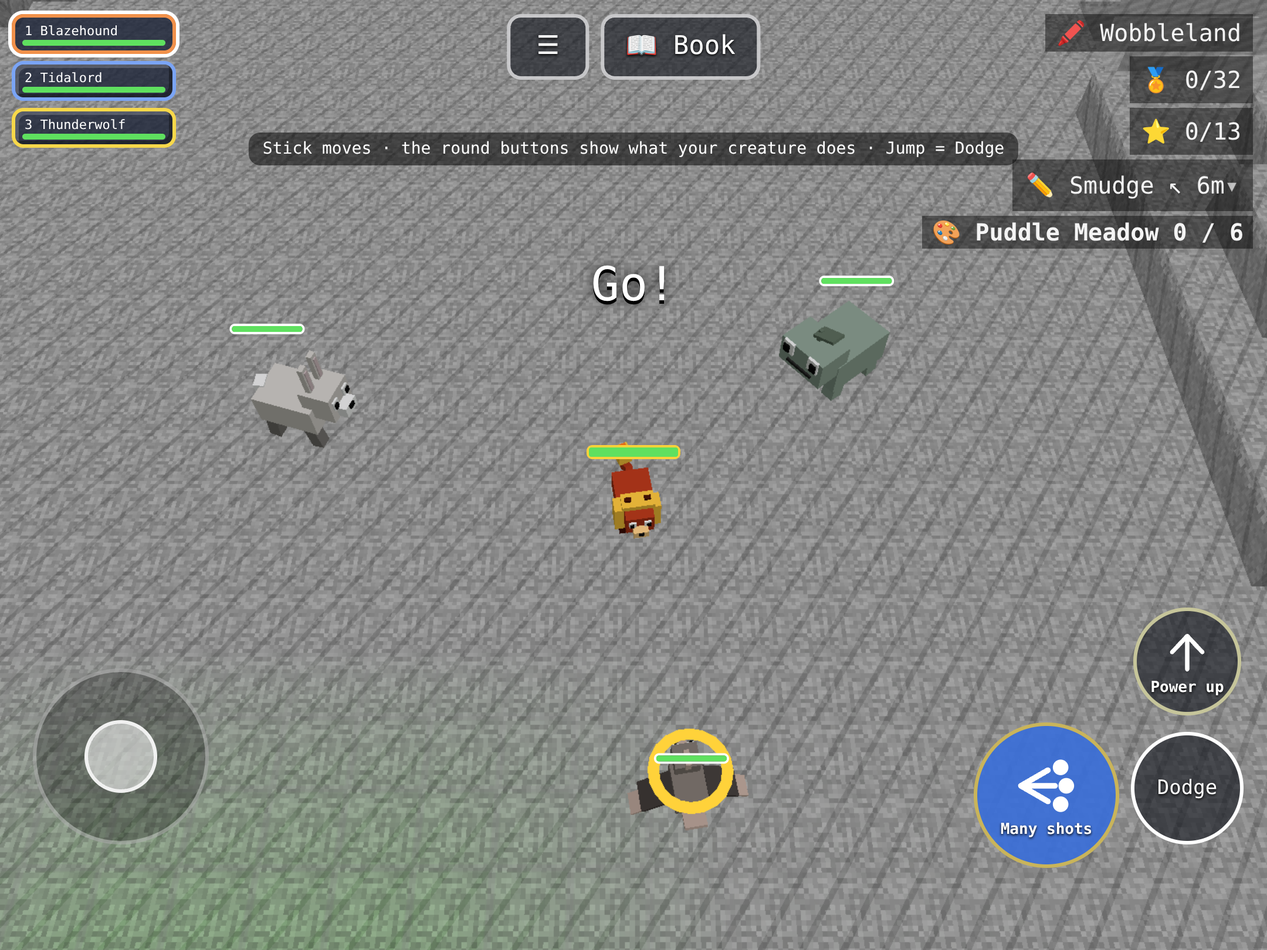
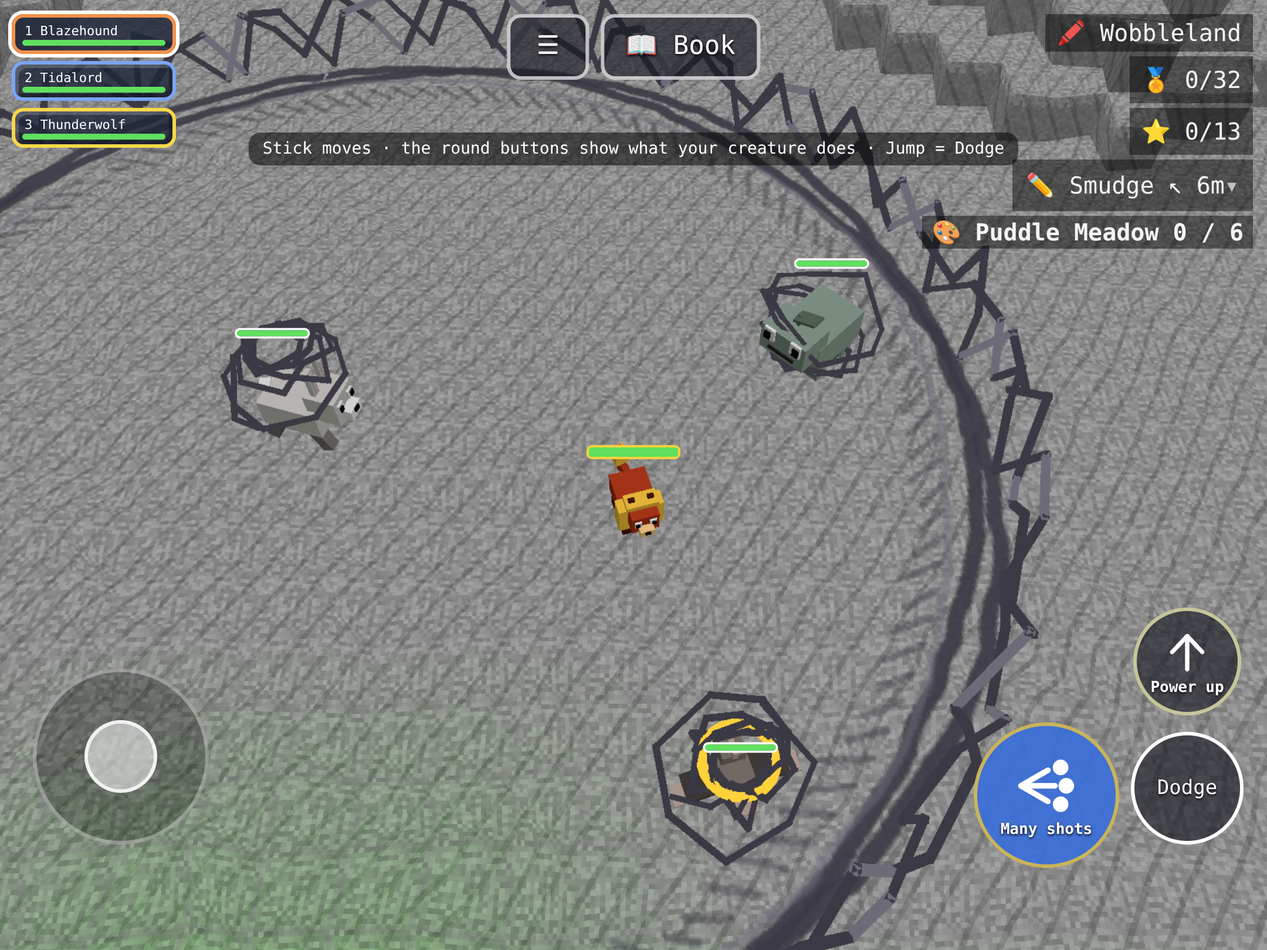
Wobbleland: wobbly hand-drawn block edges and a child's sky (crayon dome, smiling sun, clouds on strings)
Claude-Session: https://claude.ai/code/session_01Xr3DsUcemaoHVRZQu5jHwS

Changed region(s): [[0.0, 0.0, 1.0, 1.0]]

diff --git a/src/wobblesky.js b/src/wobblesky.js
@@ -1,0 +1,122 @@
+// Chapter 3 C3 (owner 2026-11-11, "more different than our regular world"): Wobbleland's sky, drawn by a child: a sky coloured in with
+// streaky crayon (one dome that follows the camera), a big sun with rays and a smile, and flat cotton clouds hanging on strings from the
+// top of the page. Only in Wobbleland (wobblelook.js adds it on reset and takes it away everywhere else); never a block, never saved.
+// Every mesh carries userData.noCurl (the page's curl must not lift the sky) and fog: false. 4 draw calls: dome, sun, clouds, strings.
+import * as THREE from 'three';
+
+export const SKY = {
+  r: 240,                     // the dome's radius (the camera's far plane is 300)
+  page: '#fff3c4',            // the page colour at the horizon (= the realm's fog colour, realms.js look.sky)
+  blue: ['#7cc4f2', '#5fb2ec', '#8fd0f6', '#6cbdf0'], // crayon blues
+  sun: { yaw: 0.3, up: 0.27, size: 46 },             // where the sun hangs (yaw from north, how high) and how big
+  clouds: [[-0.6, 0.30, 40], [0.2, 0.36, 34], [1.4, 0.26, 44], [2.3, 0.33, 36], [3.2, 0.28, 42], [4.3, 0.34, 32], [5.3, 0.27, 38]], // yaw, up, size
+  drift: 0.012,               // the clouds swing on their strings (radians a second, a slow sway; never a fall)
+};
+
+// a seeded random (the same sky every time)
+function rng(seed) { let s = seed >>> 0; return () => { s = (s * 1664525 + 1013904223) >>> 0; return s / 4294967296; }; }
+
+function domeTexture() {
+  const W = 1024, H = 512, c = document.createElement('canvas'); c.width = W; c.height = H;
+  const x = c.getContext('2d'), r = rng(7);
+  x.fillStyle = SKY.page; x.fillRect(0, 0, W, H);
+  // crayon strokes: long slanted strokes, thick, with gaps where the paper shows, thinning toward the horizon (v 0.5)
+  x.lineCap = 'round';
+  for (let i = 0; i < 2600; i++) {
+    const v = Math.pow(r(), 1.4) * 0.5, y = v * H;
+    const along = 1 - v / 0.5;
+    if (r() > 0.35 + along * 0.65) continue;
+    const x0 = r() * W, len = 30 + r() * 70, a = -0.35 + r() * 0.12;
+    x.strokeStyle = SKY.blue[(r() * SKY.blue.length) | 0];
+    x.globalAlpha = 0.35 + along * 0.5;
+    x.lineWidth = 5 + r() * 7;
+    x.beginPath(); x.moveTo(x0, y); x.lineTo(x0 + Math.cos(a) * len, y + Math.sin(a) * len); x.stroke();
+    if (x0 + len > W) { x.beginPath(); x.moveTo(x0 - W, y); x.lineTo(x0 - W + Math.cos(a) * len, y + Math.sin(a) * len); x.stroke(); }
+  }
+  x.globalAlpha = 1;
+  const t = new THREE.CanvasTexture(c); t.colorSpace = THREE.SRGBColorSpace; t.wrapS = THREE.RepeatWrapping;
+  return t;
+}
+
+function sunTexture() {
+  const S = 256, c = document.createElement('canvas'); c.width = c.height = S;
+  const x = c.getContext('2d'), m = S / 2, r = rng(3);
+  x.lineCap = 'round'; x.lineJoin = 'round';
+  // rays: wobbly crayon lines, some long, some short
+  for (let i = 0; i < 14; i++) {
+    const a = i / 14 * Math.PI * 2 + (r() - 0.5) * 0.12, r0 = 62, r1 = 92 + (i % 2) * 22 + r() * 8;
+    x.strokeStyle = i % 2 ? '#ffb020' : '#ffd23a'; x.lineWidth = 9;
+    x.beginPath(); x.moveTo(m + Math.cos(a) * r0, m + Math.sin(a) * r0);
+    x.quadraticCurveTo(m + Math.cos(a + 0.08) * (r0 + r1) / 2, m + Math.sin(a + 0.08) * (r0 + r1) / 2, m + Math.cos(a) * r1, m + Math.sin(a) * r1); x.stroke();
+  }
+  // the face: a round coloured in yellow (strokes over the line), a smile and two dots
+  x.fillStyle = '#ffd84a'; x.beginPath(); x.arc(m, m, 58, 0, Math.PI * 2); x.fill();
+  x.strokeStyle = '#ffc21a'; x.lineWidth = 6;
+  for (let i = 0; i < 16; i++) { const y = m - 52 + i * 7; x.beginPath(); x.moveTo(m - 52 + r() * 8, y); x.lineTo(m + 52 - r() * 8, y + 4); x.stroke(); }
+  x.strokeStyle = '#e8901a'; x.lineWidth = 5; x.beginPath(); x.arc(m, m, 58, 0, Math.PI * 2); x.stroke();
+  x.fillStyle = '#4a3020'; x.beginPath(); x.arc(m - 20, m - 12, 6, 0, Math.PI * 2); x.arc(m + 20, m - 12, 6, 0, Math.PI * 2); x.fill();
+  x.strokeStyle = '#4a3020'; x.lineWidth = 6; x.beginPath(); x.arc(m, m + 2, 26, 0.2 * Math.PI, 0.8 * Math.PI); x.stroke();
+  x.fillStyle = 'rgba(255,120,120,0.55)'; x.beginPath(); x.arc(m - 34, m + 12, 9, 0, Math.PI * 2); x.arc(m + 34, m + 12, 9, 0, Math.PI * 2); x.fill();
+  const t = new THREE.CanvasTexture(c); t.colorSpace = THREE.SRGBColorSpace; return t;
+}
+
+function cloudTexture() {
+  const W = 256, H = 128, c = document.createElement('canvas'); c.width = W; c.height = H;
+  const x = c.getContext('2d'), puffs = [[70, 78, 40], [118, 58, 48], [170, 74, 40], [205, 88, 26], [44, 92, 24], [128, 92, 36]];
+  x.fillStyle = '#ffffff';
+  for (const [px, py, pr] of puffs) { x.beginPath(); x.arc(px, py, pr, 0, Math.PI * 2); x.fill(); }
+  x.strokeStyle = '#8aa6c8'; x.lineWidth = 4; // the outline of every puff, drawn round the outside only
+  x.save(); x.globalCompositeOperation = 'destination-over';
+  for (const [px, py, pr] of puffs) { x.beginPath(); x.arc(px, py, pr + 3, 0, Math.PI * 2); x.fillStyle = '#8aa6c8'; x.fill(); }
+  x.restore();
+  const t = new THREE.CanvasTexture(c); t.colorSpace = THREE.SRGBColorSpace; return t;
+}
+
+const dirOf = (yaw, up) => new THREE.Vector3(-Math.sin(yaw) * Math.cos(up * Math.PI / 2), Math.sin(up * Math.PI / 2), -Math.cos(yaw) * Math.cos(up * Math.PI / 2));
+
+export function createWobbleSky(scene) {
+  if (typeof document === 'undefined') return { update() {}, dispose() {}, info: () => ({ on: false }) };
+  const group = new THREE.Group(); group.name = 'wobble-sky'; group.userData.noCurl = true;
+  const mk = (geo, mat, order) => { const m = new THREE.Mesh(geo, mat); m.renderOrder = order; m.frustumCulled = false; m.userData.noCurl = true; group.add(m); return m; };
+  const dome = mk(new THREE.SphereGeometry(SKY.r, 32, 16), new THREE.MeshBasicMaterial({ map: domeTexture(), side: THREE.BackSide, fog: false, depthWrite: false }), -10);
+  const sunDir = dirOf(SKY.sun.yaw, SKY.sun.up);
+  const sun = mk(new THREE.PlaneGeometry(SKY.sun.size, SKY.sun.size), new THREE.MeshBasicMaterial({ map: sunTexture(), transparent: true, fog: false, depthWrite: false }), -9);
+  // the clouds: one mesh of flat quads (each faces the middle), and their strings as one line set up to the top of the page
+  const cloudTex = cloudTexture(), quads = [], strings = [];
+  for (const [yaw, up, size] of SKY.clouds) {
+    const d = dirOf(yaw, up), p = d.clone().multiplyScalar(SKY.r * 0.82), w = size, h = size / 2;
+    const right = new THREE.Vector3(Math.cos(yaw), 0, -Math.sin(yaw)).multiplyScalar(w / 2), upV = new THREE.Vector3(0, h / 2, 0);
+    quads.push({ p, right, upV });
+    strings.push(p.clone().add(new THREE.Vector3(0, h * 0.35, 0)), p.clone().add(new THREE.Vector3(0, SKY.r, 0)));
+  }
+  const pos = new Float32Array(quads.length * 18), uv = new Float32Array(quads.length * 12);
+  quads.forEach((q, i) => {
+    const a = q.p.clone().sub(q.right).sub(q.upV), b = q.p.clone().add(q.right).sub(q.upV), c = q.p.clone().add(q.right).add(q.upV), d = q.p.clone().sub(q.right).add(q.upV);
+    [a, b, c, a, c, d].forEach((v, k) => pos.set([v.x, v.y, v.z], i * 18 + k * 3));
+    uv.set([0, 0, 1, 0, 1, 1, 0, 0, 1, 1, 0, 1], i * 12);
+  });
+  const cg = new THREE.BufferGeometry(); cg.setAttribute('position', new THREE.BufferAttribute(pos, 3)); cg.setAttribute('uv', new THREE.BufferAttribute(uv, 2));
+  const clouds = mk(cg, new THREE.MeshBasicMaterial({ map: cloudTex, transparent: true, fog: false, depthWrite: false, side: THREE.DoubleSide }), -8);
+  const sg = new THREE.BufferGeometry().setFromPoints(strings);
+  const lines = new THREE.LineSegments(sg, new THREE.LineBasicMaterial({ color: 0x6a7a90, fog: false, depthWrite: false }));
+  lines.renderOrder = -8; lines.frustumCulled = false; lines.userData.noCurl = true; group.add(lines);
+  scene.add(group);
+  let t = 0;
+  return {
+    group,
+    update(dt, camera) {
+      t += dt;
+      group.position.copy(camera.position);
+      sun.position.copy(sunDir).multiplyScalar(SKY.r * 0.9);
+      group.updateMatrixWorld(); sun.lookAt(camera.position); // (lookAt takes a world place: the group's middle is the camera)
+      sun.rotateZ(Math.sin(t * 0.4) * 0.06); // (it nods a little)
+      const sway = Math.sin(t * 0.5) * SKY.drift * 20;
+      clouds.rotation.y = sway; lines.rotation.y = sway;
+    },
+    dispose() {
+      scene.remove(group);
+      group.traverse(o => { o.geometry?.dispose?.(); o.material?.map?.dispose?.(); o.material?.dispose?.(); });
+    },
+    info() { return { on: true, calls: group.children.length }; },
+  };
+}

diff --git a/src/wobblelook.js b/src/wobblelook.js
@@ -12,11 +12,14 @@ import * as THREE from 'three';
 import { wobbleLook as U } from './caves.js';
 import { PATCHES, CAMP, patchKey, REGIONS, SIZE, meadowState, inMeadow, regionAt } from './wobbleland.js';
 import { B } from './blocks.js';
+import { createWobbleSky } from './wobblesky.js'; // C3: a child's sky
 
 export const WOBBLE_LOOK = {
   curl: true,          // the curling horizon: the one on/off switch
   curlFrom: 28,        // blocks from you where the page starts to bend up
-  curlK: 0.0025,       // lift = curlK x (distance - curlFrom)^2: at 60 blocks 2.6 up, at 100 about 13, at 150 about 37
+  curlK: 0.0025,
+  sky: true,           // C3: the child's sky (wobblesky.js): crayon dome, smiling sun, clouds on strings
+  jig: 0.12,           // C1: every block corner moves up to this far sideways (half that up or down): hand-drawn edges (0 = straight)       // lift = curlK x (distance - curlFrom)^2: at 60 blocks 2.6 up, at 100 about 13, at 150 about 37
   draft: [1.07, 1.05, 0.86], sat: 1.45, line: 0.35, // the first-draft colours: tint, saturation, outline darkness
   cell: 4,             // the colour map: one texel per cell x cell blocks
   cleared: 17,         // a cleared patch colours a circle this big round its middle
@@ -31,7 +34,7 @@ export function createWobbleLook(game, { materials, scene, camera }) {
   tex.magFilter = THREE.LinearFilter; tex.minFilter = THREE.LinearFilter; tex.colorSpace = THREE.NoColorSpace;
   U.uWobColour.value = tex;
   let active = false, world = null, floods = [], sig = '', lifted = [];
-  let btn = null, shown = null;
+  let btn = null, shown = null, sky = null;
   const mats = ['solid', 'water', 'glow'];
   // how coloured a texel's middle is (0..1): the Camp, cleared patches (a flood grows from 0 to its radius), cleared regions
   function paint() {
@@ -63,6 +66,7 @@ export function createWobbleLook(game, { materials, scene, camera }) {
   function uniforms() {
     U.uCurl.value = active && WOBBLE_LOOK.curl ? WOBBLE_LOOK.curlK : 0;
     U.uCurlFrom.value = WOBBLE_LOOK.curlFrom;
+    U.uWobJig.value = active ? WOBBLE_LOOK.jig : 0;
     U.uDraft.value.set(...WOBBLE_LOOK.draft); U.uWobSat.value = WOBBLE_LOOK.sat; U.uWobLine.value = WOBBLE_LOOK.line;
     U.uWobSize.value.set(SIZE, SIZE);
   }
@@ -73,6 +77,8 @@ export function createWobbleLook(game, { materials, scene, camera }) {
       if (active && !w?.realm?.look?.wobble) game.ui?.setScore?.(null); // leaving: the meter goes
       world = w; active = !!w?.realm?.look?.wobble;
       setDefine(active); floods = []; sig = '';
+      sky?.dispose(); sky = null;
+      if (active && WOBBLE_LOOK.sky) sky = createWobbleSky(scene);
       uniforms();
       if (active) paint();
     },
@@ -95,6 +101,7 @@ export function createWobbleLook(game, { materials, scene, camera }) {
       api.refresh();
       if (!active) return;
       uniforms();
+      sky?.update(dt, camera);
       const m = meadowState(game.beaten); // the region's meter (step 6)
       if (m.n >= m.of && !world.wobbleMelted) api.meltWall(); // step 7: the knot cleared: the Scribble's wall melts away (live cells only)
       const reg = world.wobbleMelted && game.player ? regionAt(game.player.pos.x, game.player.pos.z) : 'meadow';
@@ -139,7 +146,7 @@ export function createWobbleLook(game, { materials, scene, camera }) {
     // ?preview: the pause screen's switch
     toggleCurl() { WOBBLE_LOOK.curl = !WOBBLE_LOOK.curl; uniforms(); return WOBBLE_LOOK.curl; },
     colourAt(x, z) { const i = Math.floor(x / WOBBLE_LOOK.cell), j = Math.floor(z / WOBBLE_LOOK.cell); return i < 0 || j < 0 || i >= N || j >= N ? 0 : data[(i + j * N) * 4] / 255; },
-    info() { return { on: active, curl: WOBBLE_LOOK.curl && active, floods: floods.length, defines: mats.map(k => !!materials[k]?.defines?.WOBBLE) }; },
+    info() { return { on: active, curl: WOBBLE_LOOK.curl && active, jig: active ? WOBBLE_LOOK.jig : 0, sky: !!sky, floods: floods.length, defines: mats.map(k => !!materials[k]?.defines?.WOBBLE) }; },
   };
   return api;
 }

diff --git a/src/caves.js b/src/caves.js
@@ -630,16 +630,26 @@ export const swirlTint = {
 // (more saturated, a lemony tint, chunky outlines on the block edges), and grey with scribble strokes where the Scribble still is
 // (uWobColour: one texel per 4 x 4 blocks, 1 = coloured; the colour flood writes it).
 export const wobbleLook = {
-  uCurl: { value: 0 }, uCurlFrom: { value: 24 },
+  uCurl: { value: 0 }, uCurlFrom: { value: 24 }, uWobJig: { value: 0 },
   uWobColour: { value: null }, uWobSize: { value: new THREE.Vector2(224, 224) },
   uDraft: { value: new THREE.Vector3(1, 1, 1) }, uWobSat: { value: 1 }, uWobLine: { value: 0 },
 };
-const WOBBLE_VERT_PARS = '#ifdef WOBBLE\nuniform float uCurl;\nuniform float uCurlFrom;\n#endif';
+const WOBBLE_VERT_PARS = '#ifdef WOBBLE\nuniform float uCurl;\nuniform float uCurlFrom;\nuniform float uWobJig;\n#endif';
 // (after project_vertex; vCavePos is the world position) the curl: lifted by uCurl x (distance past uCurlFrom)^2, the same in every shader
+// C1 (owner 2026-11-11, "more different"): every block corner moves a fixed little bit (a hash of its own place: up to uWobJig sideways,
+// half that up or down; never over time, so nothing shakes). A corner shared by two blocks has the same place and moves the same, so there
+// are no cracks; the fragment shader keeps vCavePos (the real place), so outlines and colours stay on the faces. Only the look: walking and
+// the fight keep the real cubes.
 const WOBBLE_VERT = `#ifdef WOBBLE
-if (uCurl > 0.0) {
+if (uCurl > 0.0 || uWobJig > 0.0) {
+  vec3 wobP = vCavePos;
+  if (uWobJig > 0.0) {
+    vec3 wobQ = floor(vCavePos + 0.5);
+    vec3 wobH = fract(sin(vec3(dot(wobQ, vec3(127.1, 311.7, 74.7)), dot(wobQ, vec3(269.5, 183.3, 246.1)), dot(wobQ, vec3(113.5, 271.9, 124.6)))) * 43758.5453);
+    wobP += (wobH - 0.5) * 2.0 * vec3(uWobJig, uWobJig * 0.5, uWobJig);
+  }
   float wobD = max(0.0, distance(vCavePos.xz, cameraPosition.xz) - uCurlFrom);
-  gl_Position = projectionMatrix * viewMatrix * vec4(vCavePos + vec3(0.0, uCurl * wobD * wobD, 0.0), 1.0);
+  gl_Position = projectionMatrix * viewMatrix * vec4(wobP + vec3(0.0, uCurl * wobD * wobD, 0.0), 1.0);
 }
 #endif`;
 const WOBBLE_FRAG_PARS = `#ifdef WOBBLE

diff --git a/CLAUDE.md b/CLAUDE.md
@@ -199,8 +199,9 @@ world with `W/D/data/ground/index/inBounds/get`) are run in Node by their specs.
 | `src/studioprops.js` | Wave 19 stage B models: `drawPicture` / `pictureCanvas` (from `FLOORS`), the easel, pot rims, the brush, the rug |
 | `src/scribblefight.js` | Chapter 3 Test A / B (owner 2026-11-09), pure, Node-runnable: `ScribbleFight` = the arena's Live rules (`shapeOf`, `damage`, `intentFor`, `LIVE` imported unchanged from `src/arena/`) on the REAL ground: `groundOf(world)` (`stand`: a creature steps up one block, a step of two is a wall; `floor`; `wet`: swim slowly), shots fly straight in 3D and stop in the first solid block, a rush stops at a wall, a stomp reaches only about its own height, the ring (`FIGHT.R` 10) is the only fence; `FIGHT` (scribble monsters x8 HP, power 60, `attack` 0.7: tougher than the arena's x6 / 50 so mashing never wins with buffs that really work; `rush`: a rush landing in the last half of a monster's warning cancels its attack, knocks it back and carries you through, any other rush stops at the monster; `cool` overrides the arena's cool-downs, empty now; owner 2026-11-09 "shots have a huge advantage", measured in plans/chapter3.md), `squadOf(party)` (copies, never your real creatures), `spotAround` (monsters leap round your creature). Night run 2026-11-09 (`plans/chapter3.md` section 9): the monsters take your STRONGEST creature's level; `FIGHT.burst` (the big blast's ring grows 2 -> 5 while held, only a full one hits hard, it stops a monster in the last half of its warning; `blastR(k)`), `FIGHT.heal` (sits 0.8 s, a hit spoils it), `FIGHT.powerUp` (lost on a hit), `FIGHT.tough` (a brace: a hit in 0.7 s bounces off and stops its thrower); **Owner 2026-11-11 (night run, plans/chapter3-world.md "Decided overnight"): `KIND_NUMBERS` = every kind's numbers in one place (`wait`, `hit`, its own rules; `FIGHT.rush` / `burst` / `heal` / `powerUp` / `tough` are aliases), a rush hits x`hit` only when timed (`plain` otherwise), `liveShape(id)` (a speed-raising move = Speed up, a multi-hit move's power x `MULTI_HITS`), `SPEED` / `paceOf` (base speed -> x0.85..1.15 walking and dodging, monsters too), `foeHp` 10, step 5: `PATCH_SIZES` (smudge / tangle / knot: level step, HP, attack rhythm, patterns), `patternOf(species)`, `patchFight(patch, y)`, `swimOf` (Water creatures swim at full speed); opts `levelStep` / `hp` / `attack`; step 7: `GRUMBLE` (a knot's big one: turns slowly, full hits only on its back or right after it struck, `openT`; scribble.js draws its glowing back)**; `FIGHT.firstJitter` (2026-11-10: the monsters' first attacks start at a random 0-0.8 s extra; at fixed times a masher's rushes always came just before the timed rush's window and 20 fps frames tipped them in, so mashing won 3x as often at 20 fps); `FightCam` / `CAM` (the fight camera, pure: fov 50, 12.6 up / 8.2 back = about 57 degrees down (owner 2026-11-10: "a bit too steep"), never follows your look; turn `'frame'`: turns slowly (`turnRate`) only while a monster is near the screen's `edge`; tips up over hills, eased), `foesMiddle` (the living monsters it frames) and `onScreen` (the bots' projection). Owner 2026-11-10 ("5 buttons ... is A LOT", chose Attack + Special): `GROUP` (attack = shot / many shots / big blast / rush, special = heal / power up / Tough / clouds), `BUTTONS` (0 Dodge, 1 Attack, 2 Special), `push(b)` / `lift(b)`, `buttonsOf()` (owner 2026-11-10: button 1 attacks, button 2 help moves; no help move = close-up attacks (rush, big blast) on button 2, all one side = split in half: no empty button), `nextMove(button)` (the ready move of that button used longest ago, else the one ready soonest), `ICON` / `iconOf` (● ●●● ◎ ➜ ✚ ▲ 🛡 ☁ ☾), `pad()` = the three buttons |
 | `src/scribble.js` | Chapter 3 Test A / B, **?preview only** (`PREVIEW`; without it this file does nothing): `scribbleSpot(world, sx, sz, yaw)` (pure: dry land 14-23 ahead of where you are when the game starts (owner 2026-11-09: tied to the world's start nobody near their home saw it), no gym box, nothing built within the ring; a toast says so), `createScribble(game)` -> `game.scribble`: the patch (an instanced pencil tangle + a ground decal); the monsters are their real models gone grey (`greyOut`) with pencil scribble wound round them (`buildWrap` / `drawWrap`; owner 2026-11-09: never drawn as doodles; STORY.md: caught creatures "go grey and grumpy"), beaten: the scribble bursts off, the colours come back, a hop, it runs off; stepping in snaps the tangle into a ring fence, a Capture Cube flies out and your lead creature hops out, the camera rises from your eyes to behind and above it in one move (`camK`, a blend of the eye pose and `thirdPerson` = scribblefight.js `FightCam`; the fov glides 75 -> 50 with it and back; your look is held while the camera is behind; enter / exit are closed forms of `phaseT`, `pinT` freezes a moment for screenshots); Test B (first person) was removed (owner 2026-11-10: "better with the pan out version"); three buttons with a fixed meaning (owner 2026-11-10): Jump = Dodge, the round action button = Attack, Place = Special, each showing its next move's KIND as a simple drawn icon (`KIND_SVG`, owner 2026-11-10: "WTH does attack mean") and word (Shot, Many shots, Blast · hold, Rush, Heal, Power up, Tough, Slow cloud, Sleepy cloud; the computer's card adds the move's name; `plans/chapter3/kind-icons.png`) (capture listeners on `btn-jump/act/place`; Ride and Down are hidden in a fight, `#touch.fight`), keys Space / Q (or a click) / E, hold Attack on ◎ to charge a big blast, 1 2 3 swap, a tap picks a monster; one ground ring round your creature (`aura`: the big blast's reach while held, heal, brace, power up); nothing saved, sent or a block. main.js hooks marked "chapter 3" (`holdsPlayer`, `update`, `tap`); `where()` / `aim()`: the guide arrow (guide.js) leads to the patch until you cleared it once (`beaten`), and "Where to go" has a row `scribble` (destinations.js, dim while it is gone) |
-| `src/wobblelook.js` | Chapter 3 step 4: Wobbleland's look behind the `WOBBLE` material define (set only there, like `SKETCH`; caves.js `wobbleLook` uniforms, `WOBBLE_VERT` / `WOBBLE_FRAG`): `WOBBLE_LOOK` (**`curl`** = the one on/off switch of the curling page, `curlFrom` / `curlK`; first-draft `draft` / `sat` / `line`; `cleared` / `flood`), `curlLift(d)`, `createWobbleLook` -> `game.wobbleLook` (`reset`, `update`, `flood(id)`, `beforeRender` / `afterRender` lift far models, `toggleCurl`, the pause screen's `#curl-btn`, `colourAt`, `info`); the main world is byte for byte the same (spec `wobble` part `look`) |
+| `src/wobblelook.js` | Chapter 3 step 4: Wobbleland's look behind the `WOBBLE` material define (set only there, like `SKETCH`; caves.js `wobbleLook` uniforms, `WOBBLE_VERT` / `WOBBLE_FRAG`): `WOBBLE_LOOK` (**`curl`** = the one on/off switch of the curling page, `curlFrom` / `curlK`; first-draft `draft` / `sat` / `line`; `cleared` / `flood`; C1 `jig` = every block corner moved by a hash of its place (caves.js `uWobJig`, no cracks, vCavePos stays real); C3 `sky`), `curlLift(d)`, `createWobbleLook` -> `game.wobbleLook` (`reset`, `update`, `flood(id)`, `beforeRender` / `afterRender` lift far models, `toggleCurl`, the pause screen's `#curl-btn`, `colourAt`, `info`); the main world is byte for byte the same (spec `wobble` part `look`) |
 | `src/wobblelive.js` | Chapter 3 (?preview) `WobbleLive` = `LIVE.wobble` (world.parts from wobbleland.js): A3 paint-pot hops (`POT`, pure `potsOf(beaten)` = the Camp's pot + one per cleared patch, `hopOf(pots, pos, yaw)` = the pot you stand in and the one nearest the way you look; a beam of its colour over it, the button word "Hop to blue!"), `info()`; nothing saved or sent |
+| `src/wobblesky.js` | Chapter 3 C3 (?preview): `createWobbleSky(scene)` = a child's sky in Wobbleland only (`SKY`: a crayon-streaked dome that follows the camera, a smiling sun with rays, cotton clouds on strings; 4 draw calls, `noCurl`, `fog: false`); made / thrown away by wobblelook.js `reset` (`WOBBLE_LOOK.sky`) |
 | `src/wobbleland.js` | Chapter 3 (plans/chapter3-world.md, ?preview only): **Wobbleland**, the Wizard's very first drawing, as terrain data (Node-runnable, `TERRAINS.wobbleLand`, 224 x 224, the same for every seed): `CAMP` (Inkpot Camp, healer, the way back on steps), `PATCHES` (append-only ids, `patchKey(id)` = `pw:wobble:patch<id>`, `openPatches(beaten)` (the knot only once its region's others are clear), `FREED_SPAWNS` (wildafter `wobble:<id>`), `meadowState`, `wizardLine`, sizes smudge / tangle / knot, `wet` = the water twist), owner 2026-11-11 (A1): a packed `MEADOW` box round the Camp (patch centres 26-28 apart, the arrow shows smudges first) with `WALLS` (the Scribble's wall, north / west / east, a keep that fences riders) and the next `REGIONS` right behind it (`regionAt`: Bumpy Hills north, Slippy Lake `LAKE` west, Shadywood `WOOD` east); B: riding and flying everywhere (the page's keep has `rideIn`; riding into a patch hops you off as its fight starts, scribble.js), `heightAt` (bulgy hills, flat rings), puddles, the right-angle river, wonky trees / flower / cloud / small house / stairs to nowhere / mushroom; `world.wobble`; `wobbleAim`; `paperDoor(world)` = the Paper Door's cells in the tower's south wall on the Wizard's island + where you come back (portal.js draws it, CLOTH under a grey-cream `DoorGlow`, only for `game.studio.ally` with `PREVIEW`); realm `REALMS.wobble` (registered only with ?preview, `entrance: 'paper'`); `tests/wobblecheck.mjs` (reach, rings, the wall), spec `wobble` |
 | `arena.html`, `src/arena/` | Chapter 3 test arena (owner 2026-11-09, a separate page, never part of the game, reads the save only): `core.js` (`shapeOf` = a battle move's arena shape from its data, `damage` = battle.js's sum, `intentFor` / `inIntent` = red warnings, `PLACES` meadow / cave / ice, `SEE`, `Fighter`, `Fx`), `live.js` (live action; ice slides, Ice creatures keep their grip), `turns.js` (`TimingMode` ⏱: needle / beats / charge and blocking; owner 2026-11-09: Draw and Flick had "no real aim", Aim was "very basic": all three removed), `main.js` (the five fixed buttons = Dodge + four moves, keys Q E R F + Space, 1 2 3 = swap, stick, the squad of three to swap in Live, the cave's light and eyes, `window.arena`); `tests/arenabots.mjs` = naive vs skilled bots for every mode and place |
 

diff --git a/plans/chapter3-world.md b/plans/chapter3-world.md
@@ -406,6 +406,26 @@ and the blue one rises over patch 3. **Earned:** only cleared patches have pots,
 **Checked:** spec `wobble` part `hops` (real E: Camp -> patch 3 -> Camp; turning picks another pot; iPad: the button says it, a tap hops).
 Nothing saved: the pots are drawn from the patches' keys. Picture `plans/chapter3/wobble-pots.png`.
 
+### C1. Wobbly hand-drawn blocks
+
+**What:** in Wobbleland every block corner is moved a fixed little bit: up to **0.12 sideways and 0.06 up or down**, by a hash of the
+corner's own place (`WOBBLE_VERT` in `src/caves.js`, uniform `uWobJig`; the number is `WOBBLE_LOOK.jig` in `src/wobblelook.js`, 0 = straight).
+Never over time, so nothing shakes. **No cracks:** two blocks sharing a corner share its place, so it moves the same for both (the chunk
+mesher draws one quad per face, never merged ones, so there are no T-joints). The fragment shader still reads the real place, so the chunky
+outlines and the grey / colour map stay on their faces and follow the wobble. Only the look: walking, aiming and the fight use the real
+cubes. **Why half up and down:** a ground corner 0.12 lower would let a creature's feet sink visibly in the fight's top view; at 0.06 they
+do not (`plans/chapter3/wobble-ipad-fight.png`). Behind the WOBBLE define: the main world's byte-for-byte check stays green; draw calls
+unchanged (the wobble is three lines in the vertex shader).
+
+### C3. A child's sky
+
+**What:** `src/wobblesky.js`: one dome that follows the camera, coloured in with slanted crayon strokes that thin out toward the page's
+cream horizon (the same cream as the fog), a **big sun with crayon rays, a smile and pink cheeks** that nods a little, and **seven flat
+cotton clouds hanging on strings** from the top of the page, swaying slowly. **Choice:** the sun hangs to the north-west, 27 degrees up, so
+it is in view the moment you arrive (you arrive looking north). 4 draw calls (dome, sun, clouds as one mesh, strings as one line set),
+none lifted by the curl (`noCurl`). **Where to change:** `SKY` at the top of `src/wobblesky.js` (sun place and size, clouds, the blues);
+`WOBBLE_LOOK.sky = false` turns it off. Picture `plans/chapter3/wobble-sky-edges.png` (the sky, the wobbly plank floor of the Camp).
+
 ---
 
 ## 0. The owner's decisions (2026-11-11)
